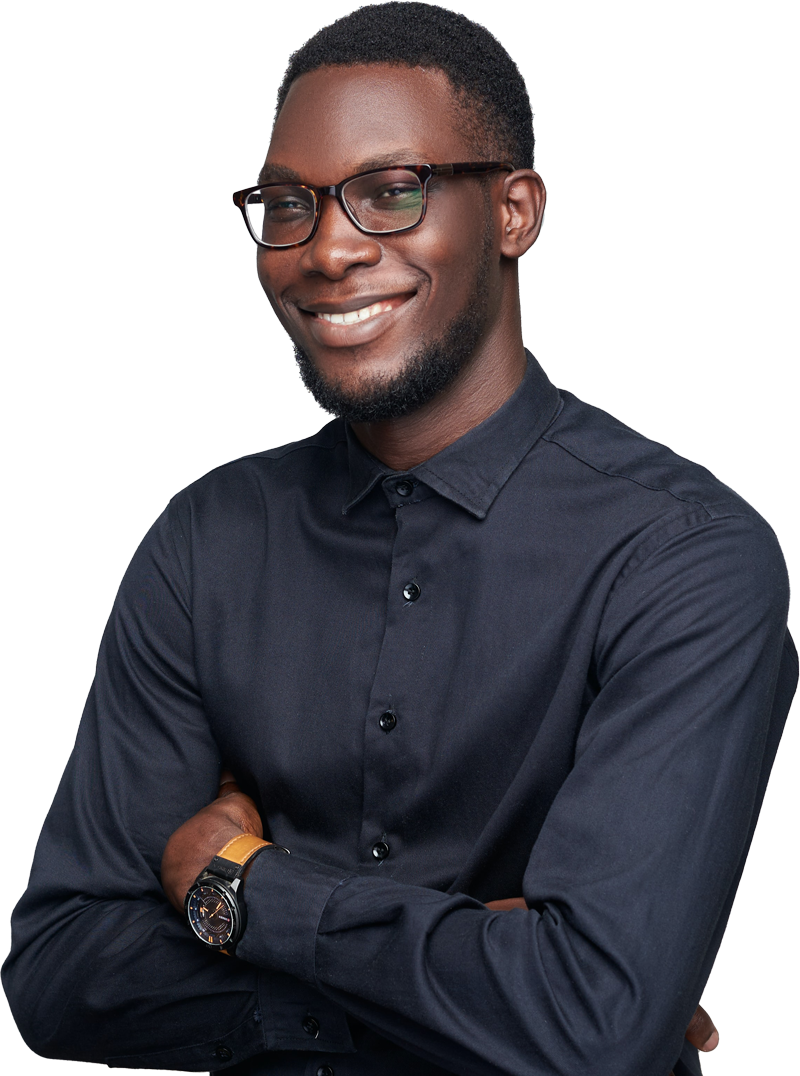
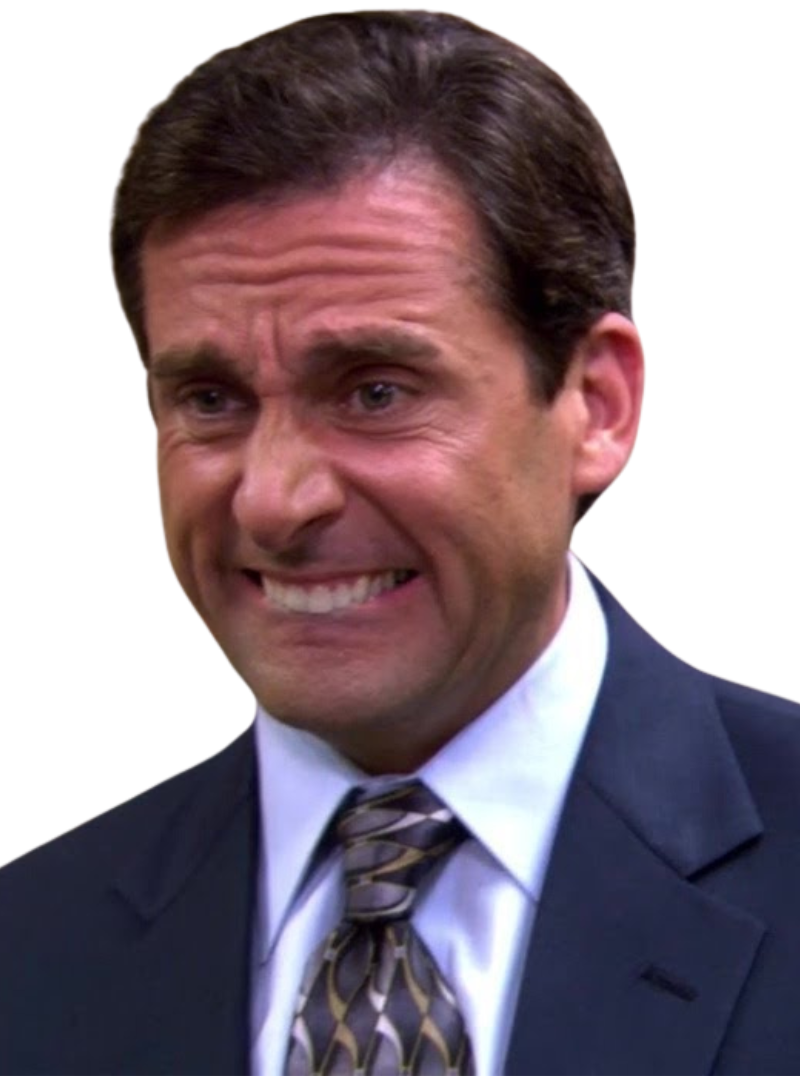
Mudando layout da página inicial

diff --git a/office/templates/office/index.html b/office/templates/office/index.html
@@ -8,7 +8,7 @@
         <meta name="author" content="" />
         <title>The Office -{% block title%} Página Inicial {% endblock %}</title>
         <!-- Favicon-->
-        <link rel="icon" type="image/x-icon" href="{% static 'office/assets/favicon.ico' %}" />
+        <link rel="icon" type="image/x-icon" href="{% static 'office/assets/favicon.png' %}" />
         <!-- Custom Google font-->
         <link rel="preconnect" href="https://fonts.googleapis.com" />
         <link rel="preconnect" href="https://fonts.gstatic.com" crossorigin />
@@ -25,7 +25,7 @@
             <!-- Navigation-->
             <nav class="navbar navbar-expand-lg navbar-light bg-white py-3">
                 <div class="container px-5">
-                    <a class="navbar-brand" href="index.html"><span class="fw-bolder text-primary">Start Bootstrap</span></a>
+                    <a class="navbar-brand" href="index.html"><span class="fw-bolder text-warning">The office</span></a>
                     <button class="navbar-toggler" type="button" data-bs-toggle="collapse" data-bs-target="#navbarSupportedContent" aria-controls="navbarSupportedContent" aria-expanded="false" aria-label="Toggle navigation"><span class="navbar-toggler-icon"></span></button>
                     <div class="collapse navbar-collapse" id="navbarSupportedContent">
                         <ul class="navbar-nav ms-auto mb-2 mb-lg-0 small fw-bolder">
@@ -47,13 +47,13 @@
                         <div class="col-xxl-5">
                             <!-- Header text content-->
                             <div class="text-center text-xxl-start">
-                                <div class="badge bg-gradient-primary-to-secondary text-white mb-4"><div class="text-uppercase">Design &middot; Development &middot; Marketing</div></div>
-                                <div class="fs-3 fw-light text-muted">I can help your business to</div>
-                                <h1 class="display-3 fw-bolder mb-5"><span class="text-gradient d-inline">Get online and grow fast</span></h1>
+                                <div class="fs-3 fw-light text-muted">Bem-Vindo ao site de:</div>
+                                <h1 class="display-3 fw-bolder mb-5"><span class=" d-inline"><img src="{% static 'office/img/logo.png' %}" class="img-fluid"></span></h1>
                                 <div class="d-grid gap-3 d-sm-flex justify-content-sm-center justify-content-xxl-start mb-3">
-                                    <a class="btn btn-primary btn-lg px-5 py-3 me-sm-3 fs-6 fw-bolder" href="{% url 'sobre' %}">Sobre</a>
+                                    <a class="btn btn-primary btn-lg px-5 py-3 me-sm-3 fs-6 fw-bolder" href="https://www.netflix.com/br/">Assita a Série</a>
                                     <a class="btn btn-outline-dark btn-lg px-5 py-3 fs-6 fw-bolder" href="{% url 'elenco' %}">Elenco</a>
                                 </div>
+                                <div class="fs-3 fw-light text-muted">Role para ver a sinopse da série!</div>
                             </div>
                         </div>
                         <div class="col-xxl-7">
@@ -187,14 +187,9 @@
                     <div class="row gx-5 justify-content-center">
                         <div class="col-xxl-8">
                             <div class="text-center my-5">
-                                <h2 class="display-5 fw-bolder"><span class="text-gradient d-inline">About Me</span></h2>
-                                <p class="lead fw-light mb-4">My name is Start Bootstrap and I help brands grow.</p>
-                                <p class="text-muted">Lorem ipsum dolor sit amet, consectetur adipisicing elit. Fugit dolorum itaque qui unde quisquam consequatur autem. Eveniet quasi nobis aliquid cumque officiis sed rem iure ipsa! Praesentium ratione atque dolorem?</p>
-                                <div class="d-flex justify-content-center fs-2 gap-4">
-                                    <a class="text-gradient" href="#!"><i class="bi bi-twitter"></i></a>
-                                    <a class="text-gradient" href="#!"><i class="bi bi-linkedin"></i></a>
-                                    <a class="text-gradient" href="#!"><i class="bi bi-github"></i></a>
-                                </div>
+                                <h2 class="display-5 fw-bolder"><span class="text-warning d-inline">Sinopse da série</span></h2>
+                                <p class="lead fw-light mb-4">The Office foi lançada em: .</p>
+                                <p class="text-muted"></p>
                             </div>
                         </div>
                     </div>